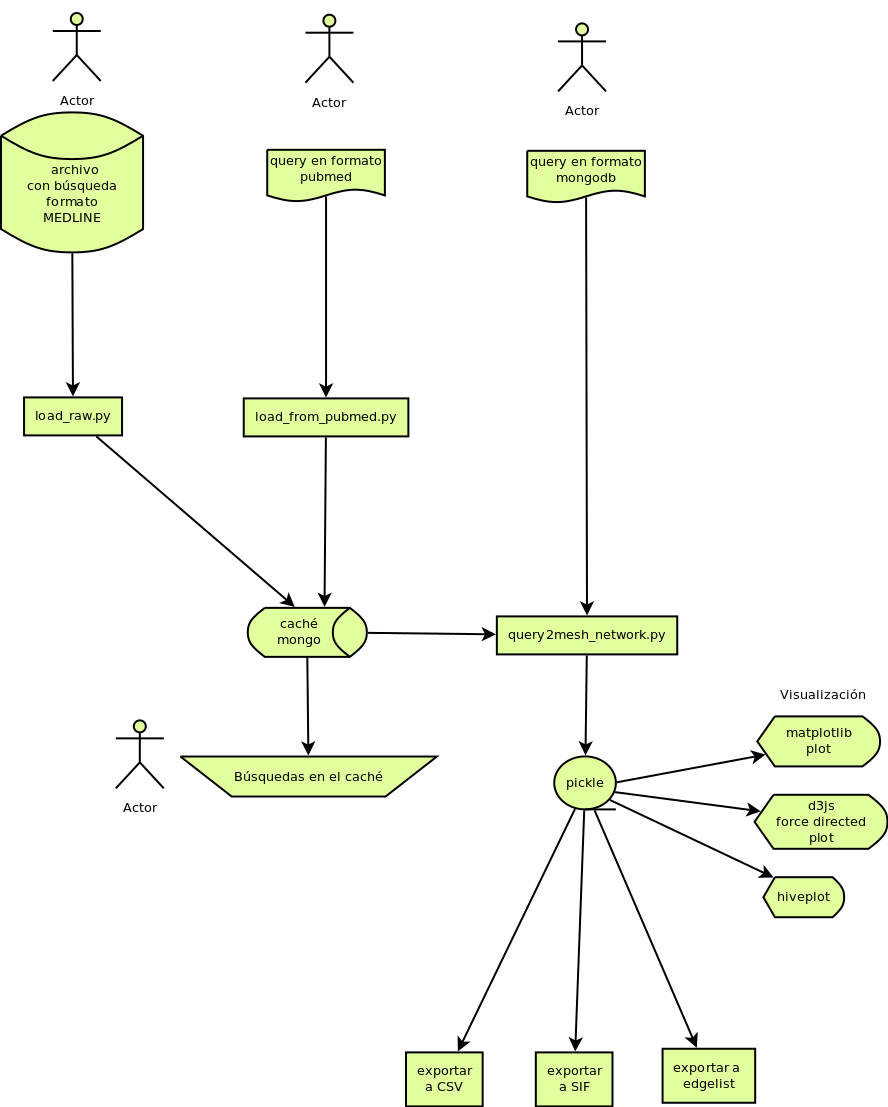
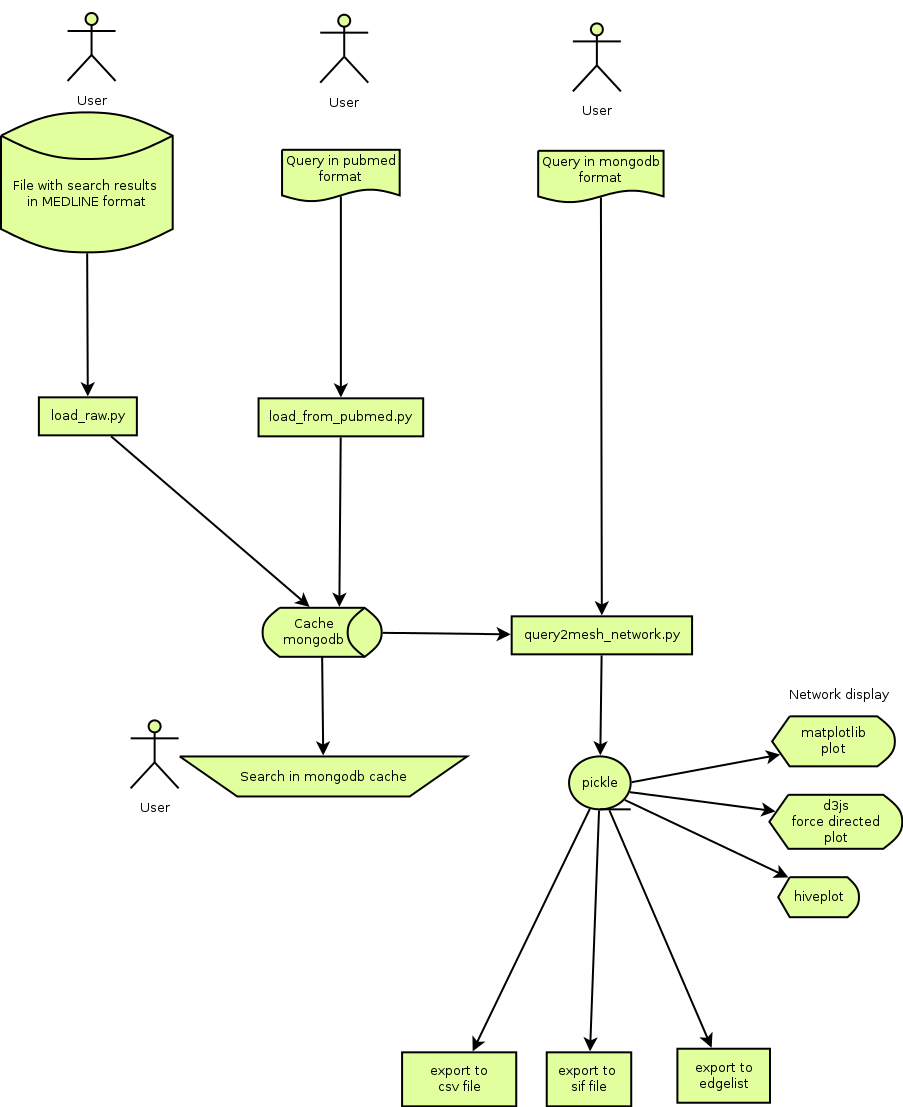
Readme and map now in English

diff --git a/README.rst b/README.rst
@@ -18,7 +18,7 @@ These functions shall have a command line interface and those scripts shall have
 
 We hope to share this tool online from our own Galaxy instance.
 
-Pasos a seguir
+Steps to follow
 -----------
 
 .. image:: https://raw.githubusercontent.com/LC3-INMEGEN/pubmed-mining/master/modulos.png
